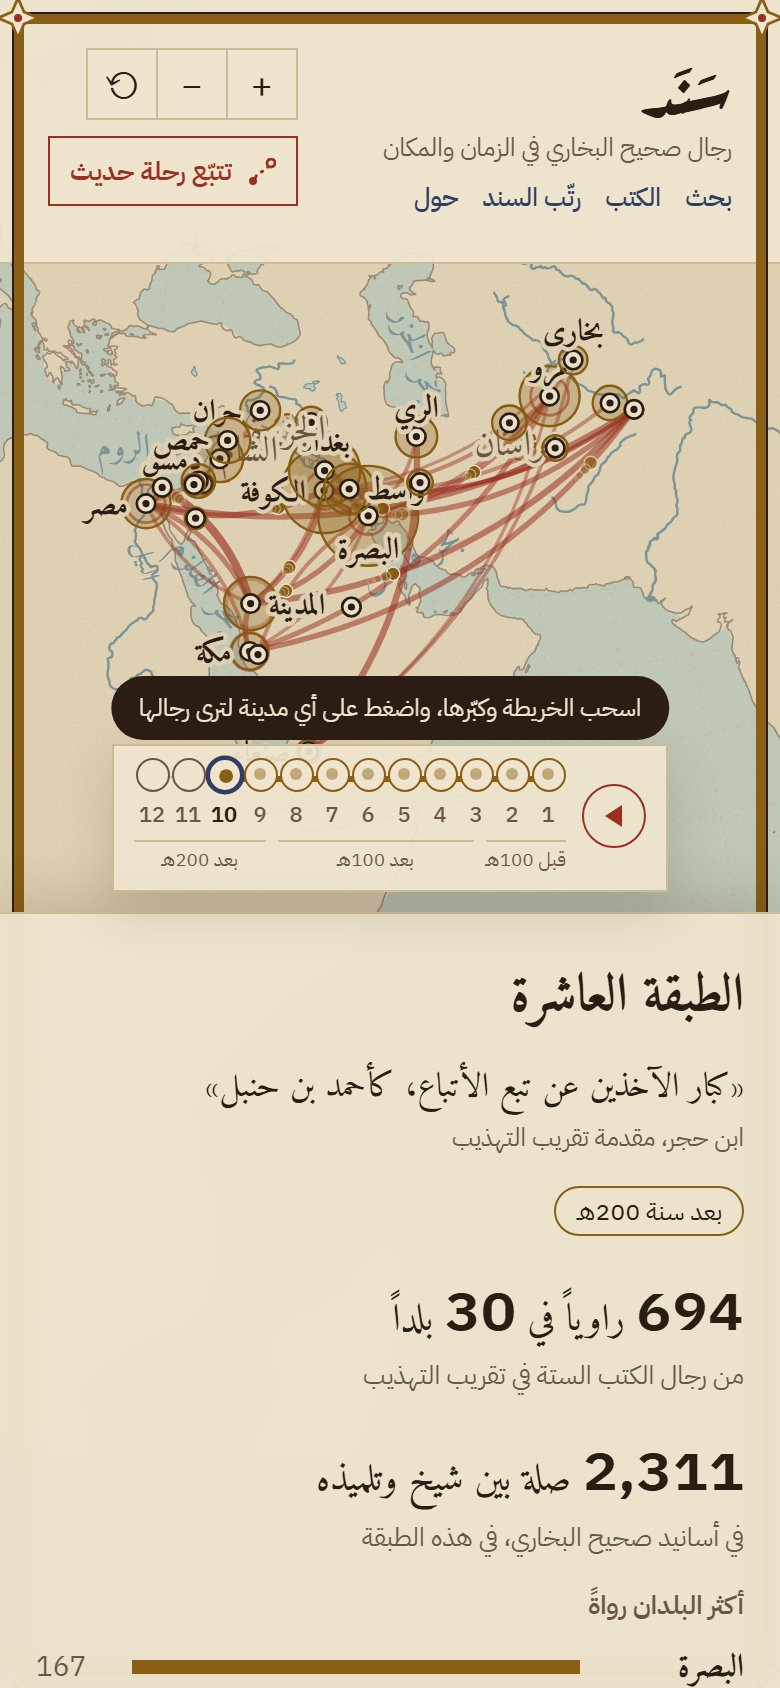
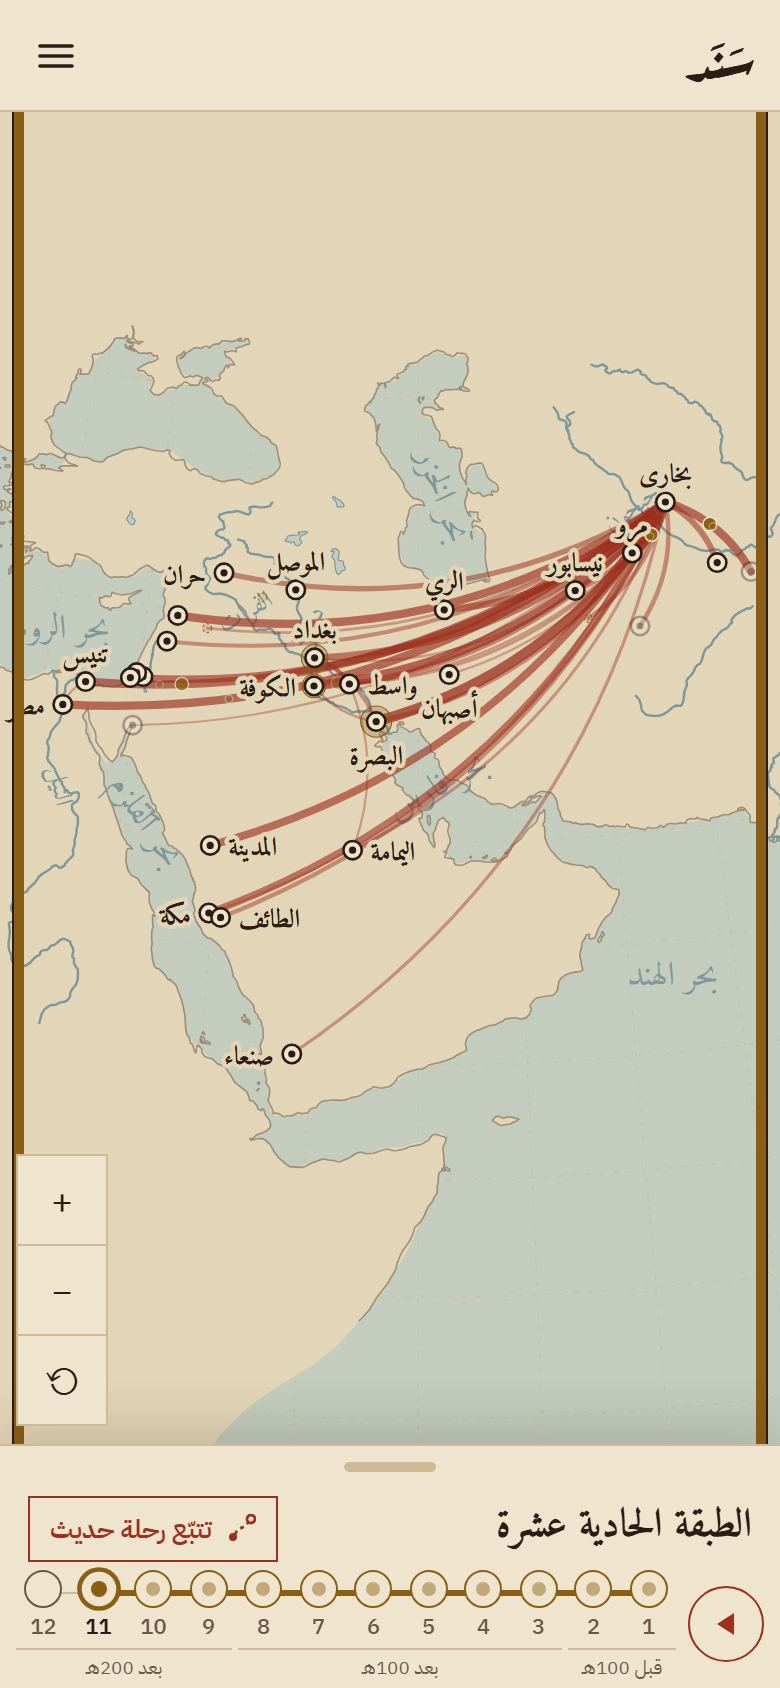
Document the phone experience, time, search and insights pages

diff --git a/src/app/(site)/about/page.tsx b/src/app/(site)/about/page.tsx
@@ -31,6 +31,8 @@ type MapFile = { tabaqat: { links: number }[] };
 
 const s = readData<Stats>("stats.json");
 const map = readData<MapFile>("map.json");
+const time = readData<{ total: number; dated: number; narrators: { y: number }[] }>("time.json");
+const pastAxis = time.narrators.filter((r) => r.y > 260).length;
 const chainLinks = map.tabaqat.reduce((sum, t) => sum + t.links, 0);
 // Isolated left-to-right so the sign stays after the digits inside Arabic text.
 const pct = (part: number, whole: number) => <bdi dir="ltr">{Math.round((part / whole) * 100)}%</bdi>;
@@ -121,6 +123,17 @@ export default function AboutPage() {
             في صفحة الحديث يُروى السند على الخريطة راوياً بعد راوٍ من موطن الصحابي إلى البخاري، والمسافة في الملخص تقريبية
             بين المواطن لا الطرق. والخرائط كلها تعرض مواطن الرواة لا أماكن السماع.
           </li>
+          <li>
+            صفحة «الزمان» تضع كل راوٍ له سنة وفاة في تقريب التهذيب على محور السنين ({n(time.dated)} من {n(time.total)} راوياً)،
+            ومن لا تُعرف وفاته لا يُقدَّر فيها. والأقاليم مجموعة من مدن الخريطة نفسها.
+          </li>
+          <li>
+            البحث في النصوص يشمل المتن وحده دون السند، بعد حذف التشكيل وتوحيد الهمزات، وتُطابق الكلمة وما اتصل بها من حروف
+            مثل الواو والباء و«ال»، فالبحث عن «الصبا» يجد «بالصبا».
+          </li>
+          <li>
+            «رؤى من البيانات» أرقام وصفية من أسانيد صحيح البخاري في هذه البيانات، لا أحكام، وشرط كل رسم مكتوب تحته.
+          </li>
         </ul>
       </Section>
 
@@ -139,6 +152,10 @@ export default function AboutPage() {
           <li>
             استخراج الحكم آلي وناقص عند بعض كبار الأئمة (مالك بلا مرتبة، ولفظ الزهري مبتور)، فالترجمة كاملة في صفحة كل
             راوٍ هي المرجع. ووسم «تعرّف آلي» يعني أن الأداة لم تقطع بصاحب الاسم.
+          </li>
+          <li>
+            سنوات الوفاة مستخرجة آلياً من التقريب، وابن حجر يحذف المائة غالباً، فقد تخطئ الأداة في قرنها. و{pastAxis} رواة تقع
+            وفاتهم في البيانات بعد سنة 260هـ، فيُعرضون في شريط بعد المحور.
           </li>
           <li>
             {s.isnadsNotLocated} سنداً لم يوجد نصه داخل نص الحديث فيُعرض بلا تلوين، و{s.isnadsWithNote} سنداً تعتمد على

diff --git a/README.md b/README.md
@@ -39,16 +39,23 @@
 <td valign="top"><img src="docs/narrator.jpg" alt="صفحة علقمة بن وقاص"><br><b>صفحة الراوي</b><br>ترجمته كاملة وتحت لفظ الحكم خط بلون مرتبته، وأعداده، وخريطة صلاته بشيوخه وتلاميذه، وأحاديثه.</td>
 </tr>
 <tr>
-<td valign="top"><img src="docs/books.jpg" alt="فهرس كتب صحيح البخاري"><br><b>فهرس الكتب</b><br>كتب الصحيح كفهرس المخطوط: رقم كل كتاب وعنوانه ومدى أحاديثه وعددها.</td>
-<td valign="top"><img src="docs/dark.jpg" alt="الوضع الداكن"><br><b>حبر وطين</b><br>الوضع الداكن يتبع إعداد الجهاز، بالأصباغ نفسها مضاءة.</td>
+<td valign="top"><img src="docs/time.jpg" alt="صفحة الزمان"><br><b>الزمان</b><br>كل راوٍ له سنة وفاة معروفة دارة على محور من 0 إلى 260هـ، صف لكل إقليم، بلون مرتبته وحجم بعدد أسانيده. اسحب على المحور لتحديد فترة، وابحث عن راوٍ لترى موضعه.</td>
+<td valign="top"><img src="docs/insights.jpg" alt="صفحة رؤى من البيانات"><br><b>رؤى من البيانات</b><br>أربعة أسئلة تجيب عنها الأرقام: تغيّر صيغ الأداء عبر الطبقات، ومواطن كل طبقة، وأطوال الأسانيد التامة، وأكثر الرواة صلات.</td>
 </tr>
 <tr>
-<td valign="top" align="center"><img src="docs/phone-home.jpg" alt="الرئيسية على الهاتف" width="260"><br><b>على الهاتف</b><br>الخريطة كاملة واللوحة تحتها.</td>
-<td valign="top" align="center"><img src="docs/phone-hadith.jpg" alt="صفحة الحديث على الهاتف" width="260"><br><b>السند على الهاتف</b><br>الخريطة فوق عمود السلسلة، وتحريكها بإصبعين.</td>
+<td valign="top"><img src="docs/search.jpg" alt="البحث في نصوص الأحاديث"><br><b>البحث</b><br>حقل واحد: الرقم يفتح الحديث، والاسم يبحث في الرواة، والكلمات تبحث في نصوص الأحاديث بلا تشكيل ولا همزات، والعبارة بين علامتي تنصيص تُطابَق متتابعة.</td>
+<td valign="top"><img src="docs/books.jpg" alt="فهرس كتب صحيح البخاري"><br><b>فهرس الكتب</b><br>كتب الصحيح كفهرس المخطوط: رقم كل كتاب وعنوانه ومدى أحاديثه وعددها.</td>
+</tr>
+<tr>
+<td valign="top" align="center" colspan="2"><img src="docs/dark.jpg" alt="الوضع الداكن" width="50%"><br><b>حبر وطين</b><br>الوضع الداكن يتبع إعداد الجهاز، بالأصباغ نفسها مضاءة.</td>
+</tr>
+<tr>
+<td valign="top" align="center"><img src="docs/phone-home.jpg" alt="الرئيسية على الهاتف" width="260"><br><b>على الهاتف</b><br>الخريطة تملأ الشاشة، واللوحة سفلية بثلاثة ارتفاعات، وأسماء المدن لا تتراكب.</td>
+<td valign="top" align="center"><img src="docs/phone-journey.jpg" alt="رحلة حديث على الهاتف" width="260"><br><b>الرحلة على الهاتف</b><br>اللوحة تعرض الراوي الحالي وحكم ابن حجر وصيغة التحمّل، والكاميرا تتبعه فوقها.</td>
 </tr>
 </table>
 
-ومعها البحث في الرواة بالاسم والكنية والنسبة وبرقم الحديث، ولعبة «رتّب السند».
+ومعها لعبة «رتّب السند». والخرائط داخل الصفحات معاينة على الهاتف، يفتحها زر بملء الشاشة.
 
 ## صفحة من مخطوط
 
@@ -71,7 +78,7 @@
 flowchart LR
   A["isnady-data<br/>Bukhari texts + Taqrib al-Tahdhib"] --> B["isnady<br/>parse chains, link names"]
   B --> C[("isnady.db")]
-  C --> D["Python scripts<br/>build_data.py, build_map_data.py"]
+  C --> D["Data scripts<br/>build_data, build_map_data,<br/>build_insights, build_search"]
   D --> E["JSON<br/>public/data"]
   E --> F["Next.js<br/>static export"]
   classDef leaf fill:#EFE5CF,stroke:#8A5E14,color:#2B1D14
@@ -97,6 +104,7 @@ flowchart LR
 - 45 سنداً لم يوجد نصها داخل نص الحديث فتُعرض بلا تلوين، و21 سنداً تعتمد على سند الحديث الذي قبلها. والتعاليق بعد المتن لا تستخرجها الأداة.
 - دوائر الخريطة لـ4,977 من رواة التقريب البالغين 8,824 (56%) ممن تدل نسبتهم على بلد، على 31 مدينة وإقليماً. وخطوطها من 21,783 صلة بين شيخ وتلميذه في أسانيد البخاري عُرف بلداهما.
 - 6 أحاديث لم تُنسب في البيانات إلى كتاب من كتب الصحيح الـ97.
+- سنوات الوفاة من استخراج آلي: 713 راوياً من 1,282 لهم سنة وفاة، ومن لا تُعرف وفاته لا يُقدَّر في صفحة الزمان. و8 منهم تقع وفاتهم في البيانات بعد 260هـ فيُعرضون في شريط بعد المحور، وقد يكون القرن فيها خطأ من الأداة حين يحذفه ابن حجر.
 
 ## التقنية
 
@@ -105,6 +113,8 @@ flowchart LR
 - البيانات ملفات JSON في `public/data/` يولّدها Python (بمكتبة sqlite3 المدمجة) من `isnady.db`، وتُرفع مع المستودع فلا يحتاج النشر إلى Python.
 - كل الخرائط تُرسم من خريطة أساس مسقطة مسبقاً (`geometry.json`) بوحدة مشتركة في `src/components/sanad-map/core.ts`، وd3 للتكبير والحركة. وموطن كل راوٍ من دالة واحدة (`home_of`) يستعملها مولّدا البيانات، فلا تختلف الخرائط.
 - نص الحديث يُجلب من Ummah API في المتصفح بمهلة قصيرة، وإن تعذّر عُرض نصنا بلا رسالة خطأ.
+- على الهاتف لوحة بثلاثة ارتفاعات تتحرك بـtransform، وأسماء المدن تُختار بالأولوية فلا تتقاطع، والرسم أخف: بلا مزج ألوان ولا تعتيم، و6 شهب بدل 14، وكل تحديثات الإيماءة في إطار واحد. وتجربة الحاسوب لا تتغير بشيء من ذلك.
+- البحث في النصوص بفهرس يولّده `scripts/build_search.mjs` للمتن وحده، مقسّم إلى ملفات صغيرة بحسب أول حروف الكلمة، فلا يُحمَّل إلا ما تحتاجه الكلمات المكتوبة، والتطبيع نفسه (`src/lib/arabic.mjs`) عند البناء وفي المتصفح.
 - الخطوط مستضافة مع الموقع، والحركة كلها تحترم إعداد تقليل الحركة.
 
 <details>
@@ -141,7 +151,7 @@ $IY repo add "$PWD/data-src/isnady-data"
 $IY repo use isnady-all-sources-default
 $IY catalog import sahih_al_bukhari --language ara --language eng
 $IY catalog import taqrib_al_tahdhib_ibn_hajar_al_asqalani
-npm run data       # scripts/build_data.py, then scripts/build_map_data.py
+npm run data       # hadith and narrator files, the map, the insights, the search index
 ```
 
 </div>
@@ -171,6 +181,10 @@ npm run data       # scripts/build_data.py, then scripts/build_map_data.py
 
 - **Home map:** where the narrators of the six books lived, generation by generation, with the flow of transmission from teacher's city to student's city, and featured hadiths whose chains can be followed step by step.
 - **Hadith page:** the Arabic text (from the Ummah API) with transmission words marked; the chain told on the map from the Companion to al-Bukhari, lighting each narrator in the chain column and on the death-year timeline.
-- **Narrator page:** the full Taqrib entry, count-ups, a map of his teachers and students, and his hadiths. Also search, a table of books, and an *order the chain* game.
+- **Narrator page:** the full Taqrib entry, count-ups, a map of his teachers and students, and his hadiths.
+- **Time page:** every narrator with a known death year on an axis from 0 to 260 AH, in a row for each region; drag on the axis to pick a period.
+- **Search:** one field that opens a hadith by number, finds narrators by name, and searches the hadith texts through an index split into small files, so only what the typed words need is loaded.
+- **Insights:** four questions answered from the data, with every figure computed: how the transmission words changed across the generations, where each generation lived, how many men stand in a full chain, and who is the most connected narrator. Also a table of books and an *order the chain* game.
+- **On phones:** the map fills the screen above a three-stop sheet, city names never overlap, the drawing is lighter, and maps inside pages open full screen. The desktop is untouched by any of it.
 - **Tech:** Next.js 16 static export, TypeScript, Tailwind 4; data pre-built as JSON by Python from the isnady database; maps drawn with d3 on a pre-projected Natural Earth base map. No server and no database at run time.
 - **Sources:** isnady (MIT), hadith texts from fawazahmed0/hadith-api (Unlicense), Taqrib al-Tahdhib from OpenITI, the Ummah API, Natural Earth (public domain) via world-atlas (ISC), d3 (ISC), fonts under the SIL OFL.
